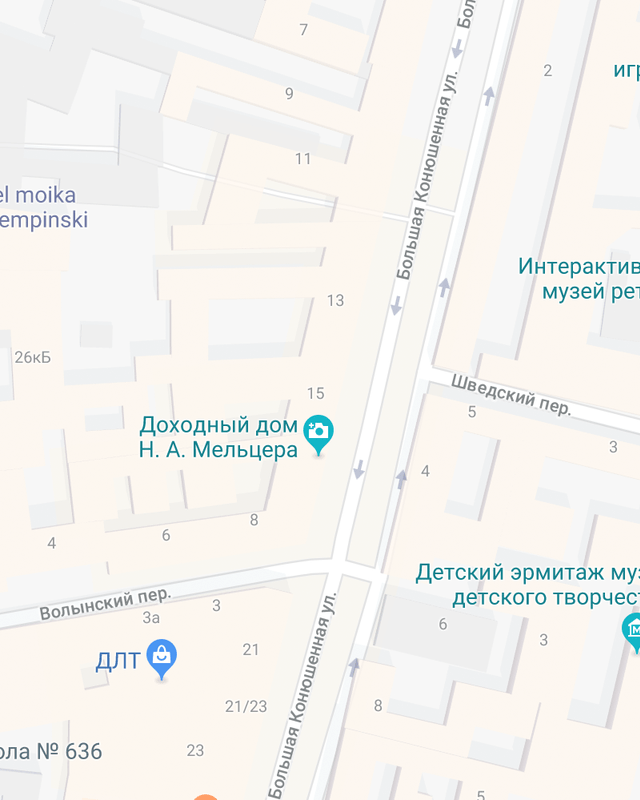
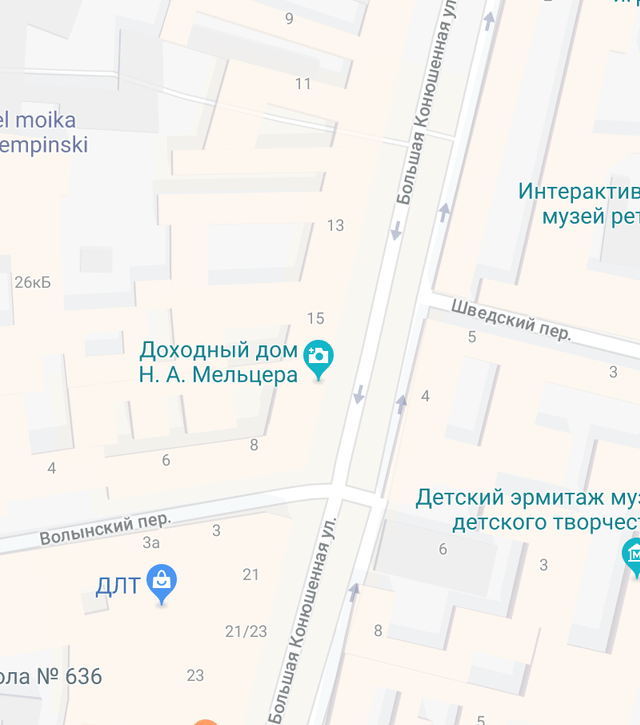
актуальное текущее состояние проекта

diff --git a/source/less/blocks/map.less b/source/less/blocks/map.less
@@ -45,8 +45,8 @@
 
   &--preview {
     position: absolute;
-    top: 50%;
-    left: 50%;
+    top: 46%;
+    left: 48%;
     transform: translate(-50%, -50%);
 
     @media @desktop {
